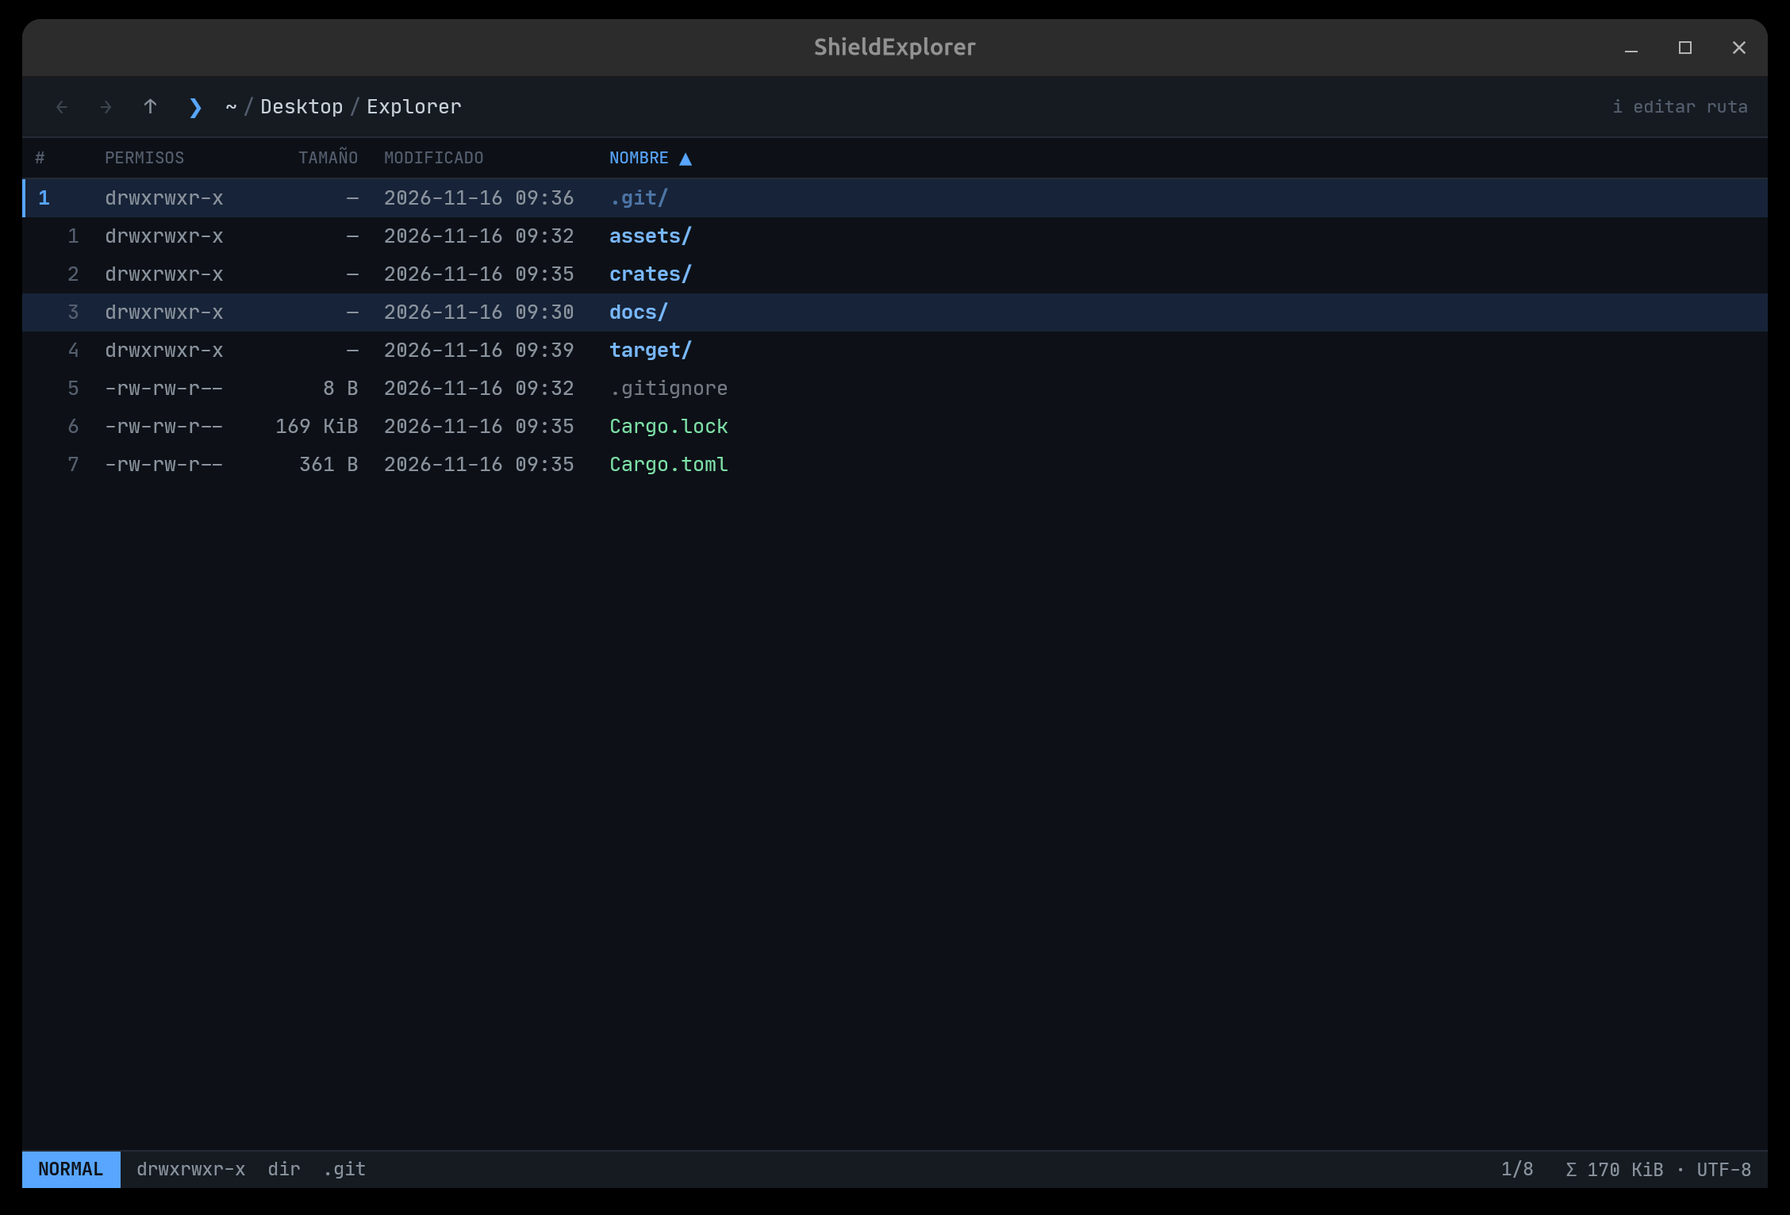
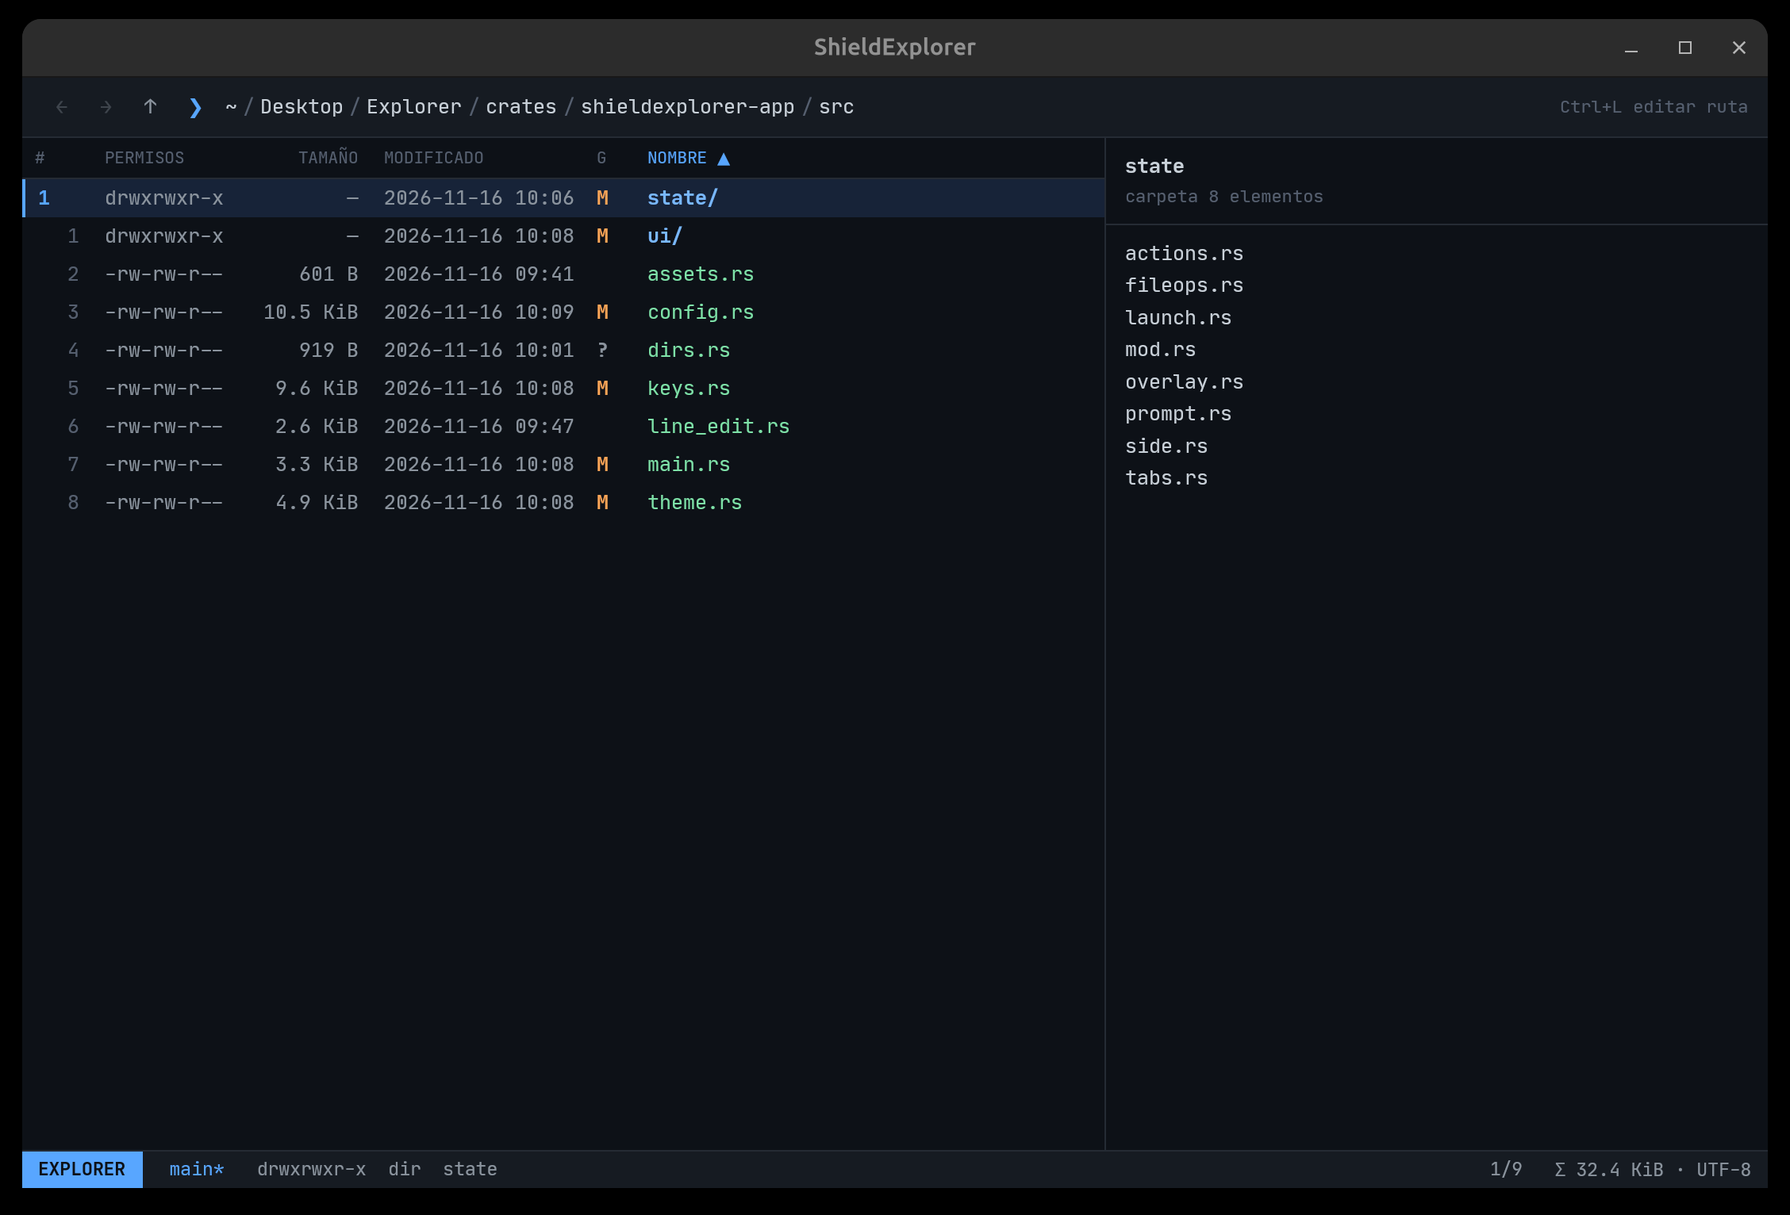
docs: README con las funciones nuevas, configuración, seguridad y hoja de ruta actualizada

diff --git a/README.md b/README.md
@@ -4,7 +4,8 @@ A file explorer for Linux written in Rust with [GPUI](https://www.gpui.rs/), the
 UI framework behind the [Zed](https://zed.dev) editor. It is built for **developers and technical
 users** who want to move fast **without touching the mouse**. It has two keyboard modes you can
 switch between at any time: a **standard explorer mode** and a **vim mode**. The look is
-terminal-like, with the information that matters in plain sight (permissions, exact size, date).
+terminal-like, with the information that matters in plain sight (permissions, exact size, date, git
+status).
 
 > **Vibe-coded project.** I'm building this with the help of AI, for fun, to have a file explorer
 > made to my own taste. A human decides what gets built and tests it; the code is written by an AI.
@@ -15,56 +16,79 @@ terminal-like, with the information that matters in plain sight (permissions, ex
 
 ## Status
 
-Early version. It is already good for **browsing and finding things in folders**. It does **not**
-yet open files, or copy, move, delete or rename them (see the [roadmap](#roadmap)).
+Early but already usable day to day: browse, preview, search, open files, and copy, move, delete,
+rename and create them. It does **not** yet have a dual pane, a side tree, or browsable archives
+(see the [roadmap](#roadmap)).
 
-The logic (`shieldexplorer-core`) has automated tests. The UI is tested by hand: keys, clicks and
-path editing have no automated tests yet.
+The logic (`shieldexplorer-core`, 69 tests) and the configuration parser are covered by automated
+tests. The UI is tested by hand: I could check by running it that the listing, preview, git marks and
+automatic refresh work, but most keybindings and clicks have no automated tests yet, so expect rough
+edges.
 
-## What it does today
+## What it does
 
 - **Two keyboard modes**, switched with `Ctrl+Shift+M` or by clicking the mode label in the status
-  bar. Your choice is remembered between sessions. See [Keybindings](#keybindings).
-- **Detailed listing** in the style of `ls -l`: permissions (`drwxr-xr-x`), size, modification date
-  and name. Folders come first and end in `/`; symbolic links end in `@`.
-- **Relative line numbers**, like vim's `relativenumber`, so a jump like `5j` is exact. The active
-  row shows its absolute position.
-- **Search**: `/` with incremental matching and `n`/`N` in vim mode; just start typing to jump to a
-  name in explorer mode.
-- **Sort by column** (name, size, date), ascending or descending, with natural ordering (`f2`
-  before `f10`) and case-insensitive names.
-- **Show or hide hidden files** on the fly.
-- **Virtualized list**: only the visible rows are drawn, so a huge folder does not slow the window.
-- **Background loading**: the window never freezes while reading the disk. If you navigate quickly,
-  stale loads are discarded.
-- **Path bar** with clickable segments and an edit mode (accepts `~`, `.`, `..` and relative paths).
-- **Back and forward history.**
-- **Errors that don't break anything**: a folder without permission or a missing one shows
-  `error[EACCES]` or `error[ENOENT]`, and you stay where you were.
-- **Light and dark theme** that follows the system and switches on its own.
-- **Status bar** with the mode, a pending count, the active file's permissions and exact byte size,
-  its position, and the folder total.
+  bar. The choice is remembered. See [Keybindings](#keybindings).
+- **Detailed listing** in the style of `ls -l`: permissions, size, date and name. Folders come
+  first and end in `/`; symbolic links end in `@` and show where they point (`→ target`).
+- **Preview pane** on the right that follows the selection: the contents of a folder, the first
+  lines of a text file, an image, or the size of a binary. `Tab` shows or hides it.
+- **Git status**: a mark per file (`M` `A` `R` `D` `U` `?`), folders show the most serious mark of
+  what they contain, and the branch (with `*` if dirty, and `↑`/`↓` ahead and behind) sits in the
+  status bar.
+- **Live updates**: the open folder refreshes by itself when files are created, deleted or renamed
+  elsewhere, keeping your cursor and selection.
+- **File operations**: copy, cut, paste, delete to the trash, rename, create files and folders, and
+  **undo**, with multi-select (visual mode or marks). Nothing is overwritten, and deleted files go
+  to the freedesktop trash so they can be restored.
+- **Open things**: `Enter` opens a file with the system default (`xdg-open`), another key opens it in
+  `$EDITOR` (inside a terminal if the editor needs one), and another opens a terminal in the folder.
+- **Fuzzy finder** (`Ctrl+P`): jump to any file in the project, respecting `.gitignore`. A second
+  finder (`Ctrl+O`) jumps to frequently visited folders, like zoxide.
+- **Command line** (`:`) with `cd`, `mkdir`, `rename`, `sort`, `z`, `yank`... and `:!command` to run
+  a shell command in the folder, with live, cancelable output.
+- **Marks**: save a folder under a letter and jump back to it.
+- **Disks**: see your mounted drives with used and free space, and jump into any of them. The trash
+  is one key away.
+- **Real folder sizes**: computed in the background, in parallel, on demand.
+- **Search and navigation**: `/` with incremental matching in vim mode, type-to-jump in explorer
+  mode, counts like `5j`, sorting by name, size or date, and show/hide hidden files.
+- **Tabs**.
+- **Fast**: virtualized list, all disk work off the UI thread, stale loads discarded, and the fuzzy
+  search spread over all CPU cores.
+- **Light and dark theme** that follows the system. Colors, columns and keybindings can be changed in
+  a [config file](#configuration).
 
 ## Keybindings
 
-Switch mode with `Ctrl+Shift+M` (or click the mode label in the status bar). The default is
-**explorer** mode. Quit with `Ctrl+Q`.
+Switch mode with `Ctrl+Shift+M`. The default is **explorer** mode. Quit with `Ctrl+Q`.
 
 ### Vim mode
 
-| Key                         | Action                                                              |
-| --------------------------- | ------------------------------------------------------------------- |
-| `j` / `k` (or `↓` / `↑`)    | Move down / up. A number first repeats it: `5j`, `12k`              |
-| `l` / `→` / `Enter`         | Open the selected folder                                            |
-| `h` / `←` / `Backspace`     | Go to the parent folder (the cursor lands on the one you left)      |
-| `gg` / `G`                  | First / last row. With a number, go to that row: `5gg`, `5G`        |
-| `Ctrl+D` / `Ctrl+U`         | Half a page down / up                                               |
-| `PageDown` / `PageUp`       | A full page down / up                                               |
-| `/`                         | Search by name as you type. `Enter` keeps it, `Esc` cancels         |
-| `n` / `N`                   | Next / previous match (`3n` repeats)                                |
-| `.`                         | Show or hide hidden files                                           |
-| `i`                         | Edit the path                                                       |
-| `Esc`                       | Clear a pending number, or dismiss an error                         |
+| Key                         | Action                                                               |
+| --------------------------- | -------------------------------------------------------------------- |
+| `j` / `k` (or `↓` / `↑`)    | Move down / up. A number first repeats it: `5j`, `12k`               |
+| `l` / `→` / `Enter`         | Open the folder, or open the file with the default program           |
+| `h` / `←` / `Backspace`     | Go to the parent folder (the cursor lands on the one you left)       |
+| `gg` / `G`                  | First / last row. With a number, go to that row: `5gg`, `5G`         |
+| `Ctrl+D` / `Ctrl+U`         | Half a page down / up                                                |
+| `/`, `n`, `N`               | Search by name as you type; next / previous match (`3n` repeats)     |
+| `v`, `Space`                | Visual selection; mark or unmark the current row                     |
+| `yy`, `dd`, `p`             | Copy, cut, paste                                                     |
+| `x`                         | Delete to the trash (undo with `u`)                                  |
+| `r`, `a`, `A`               | Rename, new file, new folder                                         |
+| `u`                         | Undo the last operation                                              |
+| `yp`, `yn`, `yr`            | Copy to the clipboard the absolute path, the name, or the relative path |
+| `e`, `o`, `t`               | Open in `$EDITOR`, open with the default program, open a terminal here |
+| `:`                         | Command line                                                         |
+| `m` + letter, `'` + letter  | Save the folder under that letter, jump to it                        |
+| `s`                         | Compute the real size of every folder                                |
+| `gd`, `gt`, `gh`, `gz`      | Disks, trash folder, home, frequent folders                          |
+| `.`                         | Show or hide hidden files                                            |
+| `i`                         | Edit the path                                                        |
+| `[` / `]`                   | Previous / next tab                                                  |
+| `Ctrl+C`                    | Cancel the running `:!` command                                      |
+| `Esc`                       | Clear a pending number, a selection, a message, or the output panel  |
 
 Searching is "smartcase", as in vim: lowercase matches any case, and a capital letter makes it
 case-sensitive.
@@ -74,57 +98,107 @@ case-sensitive.
 | Key                    | Action                                                              |
 | ---------------------- | ------------------------------------------------------------------- |
 | `↓` / `↑`              | Move down / up                                                      |
-| `Enter`                | Open the selected folder                                            |
+| `Enter`                | Open the folder, or open the file with the default program          |
 | `Backspace` / `Alt+↑`  | Go to the parent folder                                             |
-| `Home` / `End`         | First / last row                                                    |
-| `PageDown` / `PageUp`  | A full page down / up                                               |
 | *typing letters*       | Jump to the entry whose name starts with what you type              |
+| `Ctrl+C` / `Ctrl+X` / `Ctrl+V` | Copy, cut, paste                                            |
+| `Delete`               | Delete to the trash                                                 |
+| `F2`, `Ctrl+N`, `Ctrl+Shift+N` | Rename, new file, new folder                                |
+| `Ctrl+Z`               | Undo the last operation                                             |
+| `Ctrl+A`, `Insert`, `Shift+↑/↓` | Select all, mark the current row, extend the selection     |
+| `Ctrl+Shift+C`         | Copy the absolute path to the clipboard                             |
+| `Ctrl+E`, `F12`        | Open in `$EDITOR`, open a terminal here                             |
+| `Ctrl+D`               | Disks                                                               |
+| `Ctrl+Shift+P`         | Command line                                                        |
+| `Ctrl+Shift+S`         | Compute the real size of every folder                               |
 | `Ctrl+H`               | Show or hide hidden files                                           |
 | `Ctrl+L` / `F4`        | Edit the path                                                       |
-| `Esc`                  | Dismiss an error                                                    |
 
 ### In both modes
 
-| Key                 | Action                                  |
-| ------------------- | --------------------------------------- |
-| `Alt+←` / `Alt+→`   | Back / forward in history               |
-| `F5`                | Reload the folder                       |
-| `Ctrl+Shift+M`      | Switch between vim and explorer mode    |
-| `Ctrl+Q`            | Quit                                    |
+| Key                          | Action                                         |
+| ---------------------------- | ---------------------------------------------- |
+| `Home` / `End`, `PageUp` / `PageDown` | First / last row, a page up / down    |
+| `Alt+←` / `Alt+→`            | Back / forward in history                      |
+| `Tab`                        | Show or hide the preview pane                  |
+| `Ctrl+P`                     | Fuzzy finder for files in the project          |
+| `Ctrl+O`                     | Fuzzy finder for frequently visited folders    |
+| `Ctrl+Shift+T`, `Ctrl+W`     | New tab, close tab                             |
+| `Ctrl+Tab`, `Ctrl+Shift+Tab` | Next / previous tab                            |
+| `F5`                         | Reload the folder                              |
+| `Esc`                        | Dismiss an error, a selection or a message     |
+| `Ctrl+Shift+M`               | Switch between vim and explorer mode           |
+| `Ctrl+Q`                     | Quit                                           |
 
-### While editing the path or searching
+In the path field, the search, the command line and the finders: `Enter` confirms and `Esc` cancels.
+Move with `←` `→` `Home` `End`, delete with `Backspace` and `Delete`, and paste with `Ctrl+V`. In the
+finders, `↑`/`↓` (or `Ctrl+P`/`Ctrl+N`) choose a result.
 
-`Enter` confirms and `Esc` cancels. Move with `←` `→` `Home` `End`, delete with `Backspace` and
-`Delete`, and paste with `Ctrl+V`.
+### Command line
+
+`:cd [path]`, `:mkdir name`, `:touch name`, `:rename name`, `:rm` (to the trash), `:trash` (open the
+trash folder), `:open`, `:edit`, `:term`, `:hidden`, `:sort name|size|date [r]`, `:mode
+vim|explorer`, `:mark a`, `:jump a`, `:z query`, `:yank path|name|rel`, `:du`, `:undo`, `:reload`,
+`:disks`, `:tabnew`, `:tabclose`, `:preview`, `:q`, and `:!command`, where `%s` becomes the selected
+name, already quoted.
 
 ### Mouse (optional)
 
-Click selects, double-click opens a folder, clicking a column header sorts, clicking a path segment
-jumps to that level, the wheel scrolls the list, and clicking the mode label switches the mode.
+Click selects, double-click opens, clicking a column header sorts, clicking a path segment jumps to
+that level, the wheel scrolls, the tabs are clickable, and clicking the mode label switches the mode.
 
 ## Configuration
 
-The only setting for now is the keyboard mode, saved to `~/.config/shieldexplorer/config`
-(or `$XDG_CONFIG_HOME/shieldexplorer/config`) as a line like `mode=vim`.
+`~/.config/shieldexplorer/config` (or `$XDG_CONFIG_HOME/shieldexplorer/config`) is a plain text file
+of `key = value` lines. Everything is optional, and lines it cannot understand are ignored with a
+warning on stderr.
+
+```text
+mode = vim                       # vim | explorer (also saved when you switch)
+show_hidden = true
+preview = true
+theme = system                   # system | light | dark
+columns = perms, modified, git   # optional columns; size and name are always shown
+bind vim ctrl-x = cut            # bind <vim|explorer|all> <keys> = <action>
+bind all g x = disks             # several keys in a row are allowed
+color dark accent = #ff8800      # color <dark|light> <name> = #rrggbb
+```
+
+Actions for `bind`: `move_down` `move_up` `page_down` `page_up` `half_down` `half_up` `first` `last`
+`open` `open_default` `edit` `terminal` `parent` `back` `forward` `home` `trash_folder` `edit_path`
+`hidden` `reload` `mode` `preview` `sizes` `search` `search_next` `search_prev` `command` `mark`
+`jump` `copy` `cut` `paste` `delete` `rename` `new_file` `new_dir` `undo` `visual` `toggle_mark`
+`select_all` `yank_path` `yank_name` `yank_rel` `finder` `folders` `disks` `cancel_command` `tab_new`
+`tab_close` `tab_next` `tab_prev` `quit`. Color names: `bg` `bar` `border` `text` `muted` `faint`
+`cursor` `marked` `accent` `on_accent` `danger` `dir` `image` `code` `doc` `media` `archive`.
+
+Marks and visited folders are remembered in `~/.local/state/shieldexplorer/memory`.
 
 ## Safety and robustness
 
-- `unsafe_code` is **forbidden** in the project's own code (dependencies do use it).
-- It does not run shell commands or open files.
+- `unsafe_code` is **forbidden** in the project's own code (dependencies do use it), and there is
+  no `unwrap`, `expect` or `panic!` in it. Errors are typed.
+- It only starts other programs when you ask: opening a file (`xdg-open`), the editor, a terminal, or
+  a `:!` command. Programs are started without a shell, except `:!`, which is a shell command by
+  design. For its own needs it calls `git`, `df` and `kill`.
+- Nothing is overwritten: copies and moves pick a free name, and deleting sends to the trash, which
+  can be undone. Names with `..` or absolute paths are refused when creating.
 - File names are treated as what they are on Linux: bytes that need not be valid UTF-8.
-- No `unwrap`, `expect` or `panic!` in the code; errors are typed.
-- Symbolic links are shown as links and broken ones are flagged. There is no recursive traversal,
-  so there is no risk of loops.
+- Symbolic links are shown as links and broken ones are flagged. Folder sizes do not follow links, and
+  there is no recursive traversal in the listing, so there is no risk of loops.
+- The trash is the one in your home directory. Deleting something on another drive copies it there
+  first, which can be slow for big files.
 
 ## Building and running
 
 You need:
 
-- Rust with edition 2024 support (1.85 or later). Tested with 1.92.
+- Rust with edition 2024 support (1.88 or later, for `let` chains). Tested with 1.92.
 - Linux with Wayland or X11 and a graphics driver with Vulkan.
 - Development headers for xkbcommon, Wayland, xcb and fontconfig. On the development machine
   (Ubuntu) these are installed: `libxkbcommon-dev`, `libxkbcommon-x11-dev`, `libwayland-dev`,
   `libxcb1-dev` and `libfontconfig-dev`. If the build fails on a missing library, start there.
+- Optional, for the features that use them: `git`, `xdg-open`, and a terminal emulator.
 
 ```sh
 # Open in the current folder, or in the one you pass
@@ -152,8 +226,11 @@ The first build is slow because GPUI pulls in many dependencies.
 ```
 ShieldExplorer/
 ├── crates/
-│   ├── shieldexplorer-core/   UI-free logic: read folders, sorting, search, history, paths, formatting
-│   └── shieldexplorer-app/    GPUI window: state, list, path bar, status bar, theme, key modes
+│   ├── shieldexplorer-core/   UI-free logic: folders, sorting, search, file operations, trash, git,
+│   │                          disks, fuzzy finder, preview, command parser, shell runner
+│   └── shieldexplorer-app/    GPUI app
+│       └── src/ state/        listing, selection, operations, prompts, overlays, tabs (one file each)
+│           └── ui/            path bar, list, preview, overlays, output panel, tabs, status bar
 ├── assets/fonts/              JetBrains Mono (OFL license)
 └── docs/images/               screenshots
 ```
@@ -163,21 +240,19 @@ so the logic can be tested without opening a window.
 
 `gpui` is pinned to `=0.2.2` because its API is 0.x and changes between releases. `Cargo.lock`
 starts from the one published with that version: with a recent `libc`, `xattr 0.2.3` does not
-compile.
+compile. Other dependencies: `ignore` (walk files respecting `.gitignore`), `notify` (live
+refresh), `jiff` (dates), `thiserror`, `anyhow` and `futures`.
 
 ## Roadmap
 
-No dates and no promises, ordered by what best fits the keyboard-first, productivity-minded focus:
+No dates and no promises:
 
-1. **More vim:** a `:` command line, marks, `H`/`M`/`L`, and `.` to repeat.
-2. **Keyboard file operations:** copy (`yy`), cut, paste (`p`), delete to trash, rename, create
-   files and folders, visual selection (`v`).
-3. **Hooks into the dev environment:** open with the default program or `$EDITOR`, copy the path to
-   the clipboard, open a terminal in the folder.
-4. **Fast fuzzy search** in the spirit of fzf that respects `.gitignore`, plus folder bookmarks.
-5. **More context for devs:** git status in the listing and a preview of text files.
-6. **Configuration:** custom keybindings and colors.
-7. Side tree and tabs.
+1. **Dual pane** and a **side tree**, in the style of ranger or mc.
+2. **Browse archives** (zip, tar) as if they were folders.
+3. **More vim:** `H`/`M`/`L`, `.` to repeat, and registers.
+4. **Rename in bulk** and a bulk-edit buffer.
+5. **Automated UI tests** with GPUI's test harness, and CI.
+6. Release binaries (`.deb`, AppImage) and an English/Spanish interface (labels are Spanish today).
 
 ## Credits
 
